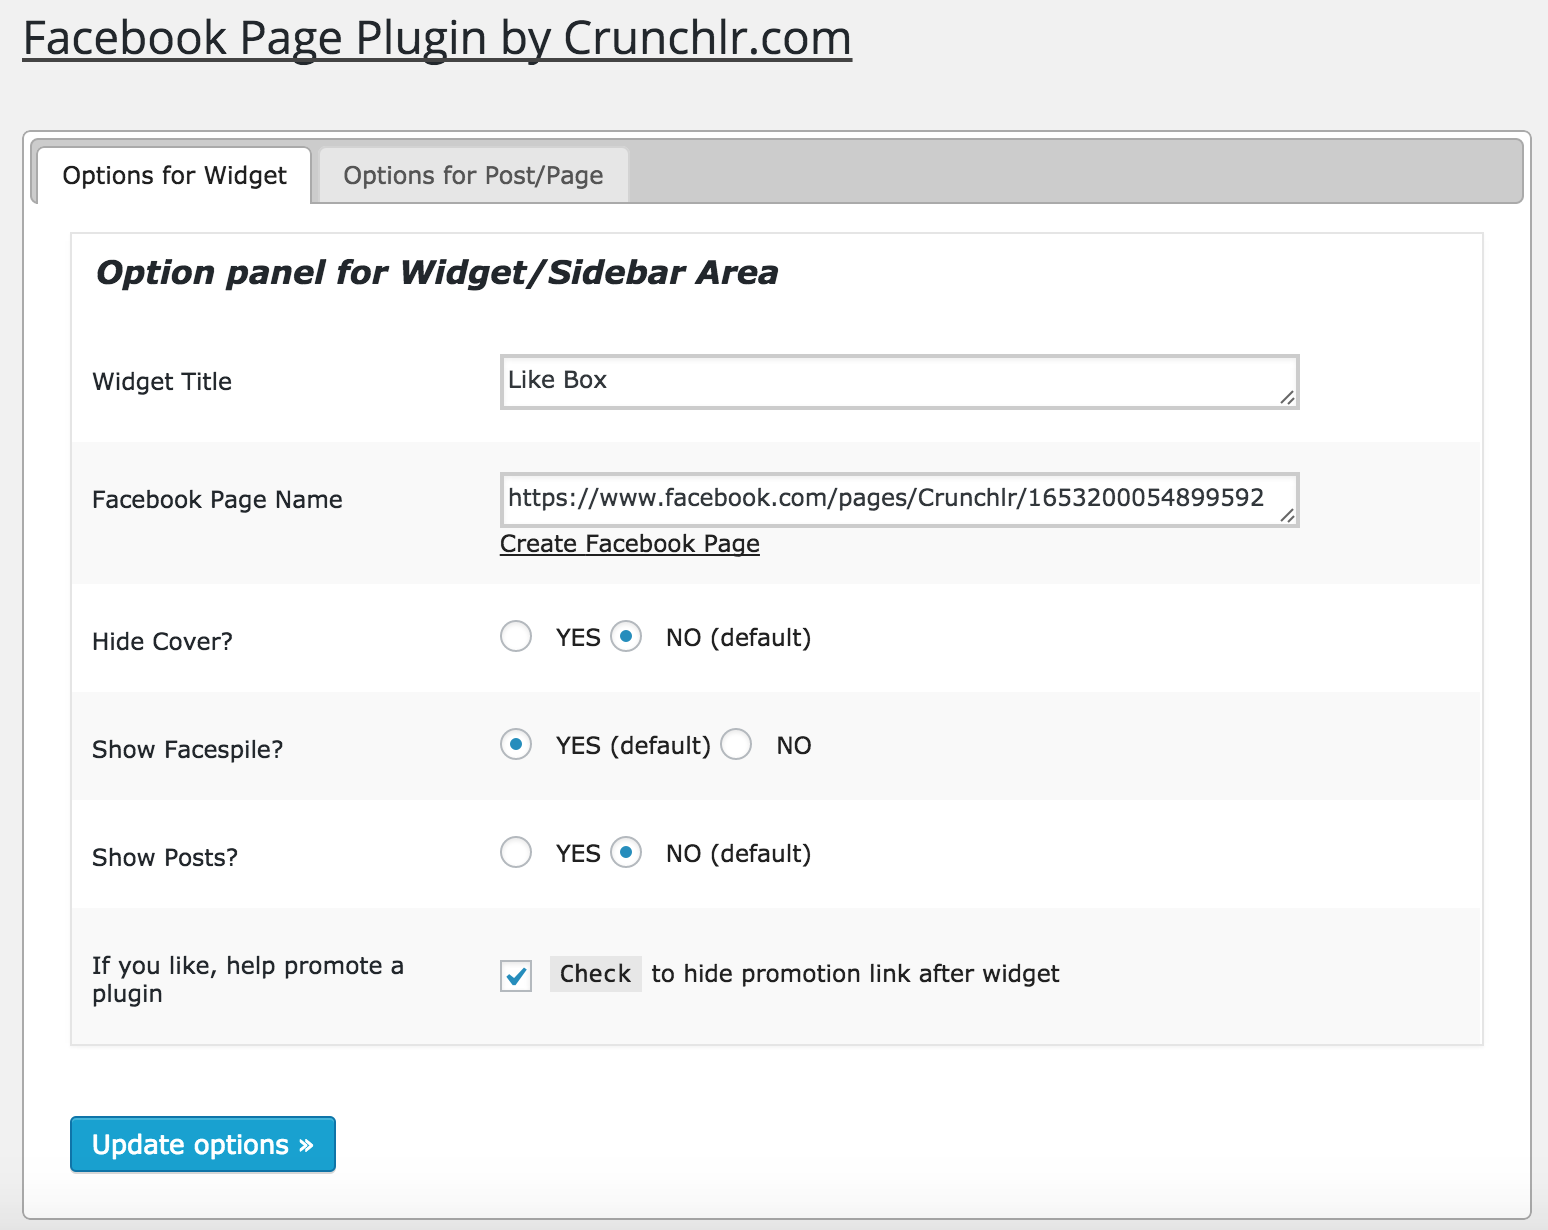
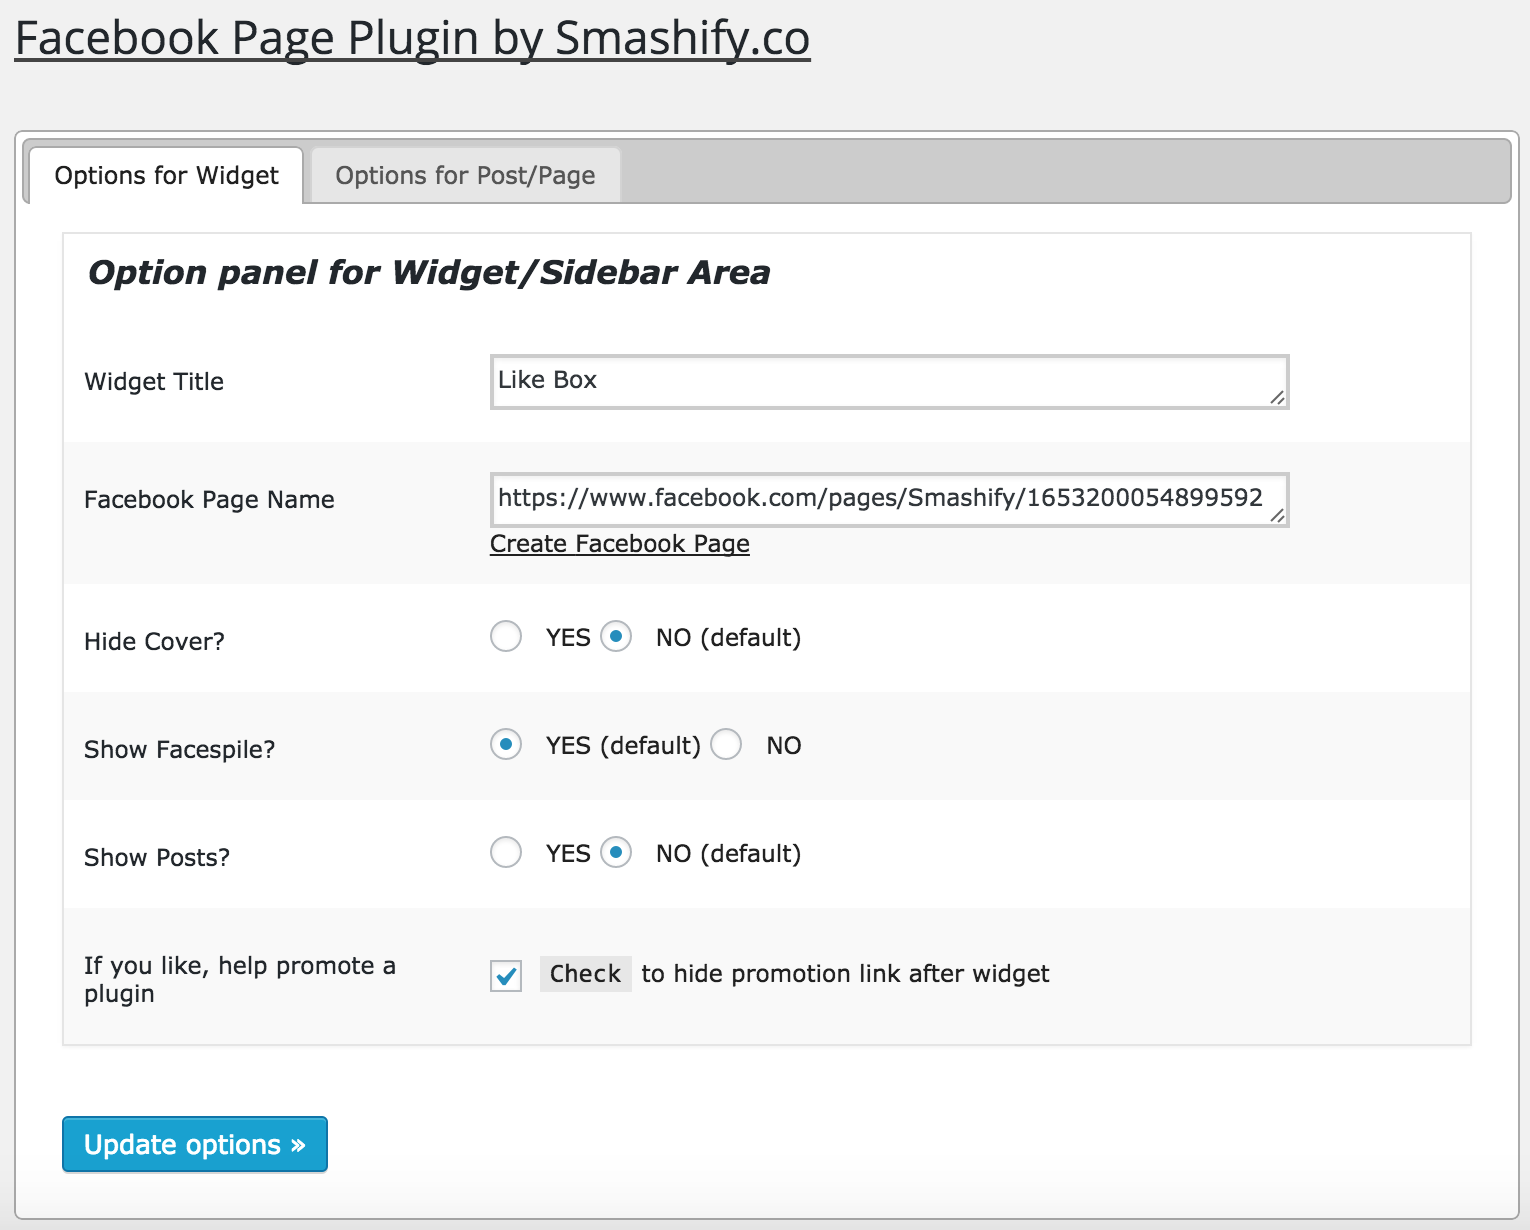
version 1.2 commit
git-svn-id: https://plugins.svn.wordpress.org/facebook-page-likebox/trunk@1166405 b8457f37-d9ea-0310-8a92-e5e31aec5664

diff --git a/facebook-page-likebox.php b/facebook-page-likebox.php
@@ -1,15 +1,15 @@
 <?php
 /*
 Plugin Name: Facebook Page Plugin (Likebox)
-Plugin URI: http://crunchlr.com/facebook-page-plugin-likebox-for-wordpress/
+Plugin URI: http://smashify.co/facebook-page-plugin-likebox-for-wordpress/
 Description: THE Simplest way to bring Facebook Page Plugin to WordPress with lot more Options
-Version: 1.1
-Author: Crunchlr
-Author URI: http://crunchlr.com
+Version: 1.2
+Author: Smashify
+Author URI: http://smashify.co
 */
 
 /*
-    Copyright (C) 2015 Crunchlr.com
+    Copyright (C) 2015 Smashify.co
 
     This program is free software; you can redistribute it and/or modify
     it under the terms of the GNU General Public License as published by
@@ -155,7 +155,7 @@ function show_crunchlr_facebook_page_plugin_likebox_widget($args)
     if ($sponser == 1) {
         $sponserlink_profile = "";
     } else {
-        $sponserlink_profile = '<div align="left">- <a href="http://crunchlr.com/facebook-page-plugin-likebox-for-wordpress/" title="Facebook Page Plugin by Crunchlr.com" target="_blank"> <font size="1">' . 'Facebook Page Plugin by Crunchlr' . '</font></a></div>';
+        $sponserlink_profile = '<div align="left">- <a href="http://smashify.co/facebook-page-plugin-likebox-for-wordpress/" title="Facebook Page Plugin by Smashify.co" target="_blank"> <font size="1">' . 'Facebook Page Plugin by Smashify' . '</font></a></div>';
     }
 
 

diff --git a/includes/setting-page/crunchlr-right-panel2.php b/includes/setting-page/crunchlr-right-panel2.php
@@ -1,6 +1,6 @@
 <?php
 /**
- * @author Crunchlr.com
+ * @author Smashify.co
  * Plugin: Facebook Page Plugin
  */
 ?>
@@ -12,9 +12,9 @@
 
         <div class="inside">
             <ul>
-               <li><a href="http://crunchlr.com/facebook-page-plugin-likebox-for-wordpress/" target="_blank">Feedback</a></li>
-               <li><a href="http://twitter.com/Crunchlr" target="_blank">Twitter</a></li>
-               <li><a href="https://www.facebook.com/pages/Crunchlr/1653200054899592" target="_blank">Facebook</a></li>
+               <li><a href="http://smashify.co/facebook-page-plugin-likebox-for-wordpress/" target="_blank">Feedback</a></li>
+               <li><a href="http://twitter.com/SmashifyCo" target="_blank">Twitter</a></li>
+               <li><a href="https://www.facebook.com/pages/Smashify/1653200054899592" target="_blank">Facebook</a></li>
                </li>
             </ul>
         </div>

diff --git a/includes/settings-page.php b/includes/settings-page.php
@@ -1,6 +1,6 @@
 <?php
 /**
- * @author Crunchlr.com
+ * @author Smashify.co
  * Plugin: Facebook Page Plugin
  */
 ?>
@@ -12,7 +12,7 @@
 
             <?php wp_nonce_field('fmz-update-setting','fmz-update-setting'); ?>
 
-            <u><h2>Facebook Page Plugin by Crunchlr.com</h2></u>
+            <u><h2>Facebook Page Plugin by Smashify.co</h2></u>
 
             <div id="poststuff" class="metabox-holder has-right-sidebar">
 

diff --git a/includes/setting-page/crunchlr-footer.php b/includes/setting-page/crunchlr-footer.php
@@ -1,6 +1,6 @@
 <?php
 /**
- * @author Crunchlr.com
+ * @author Smashify.co
  * Plugin: Facebook Page Plugin
  */
 ?>
@@ -10,6 +10,6 @@
 </div>
 <div class="clear">
     <p>
-        <br/>&copy; Copyright <?php echo date("Y"); ?> <a href="http://crunchlr.com" target="_blank">Crunchlr.com</a>
+        <br/>&copy; Copyright <?php echo date("Y"); ?> <a href="http://smashify.co" target="_blank">Smashify.co</a>
     </p>
 </div>		

diff --git a/includes/setting-page/crunchlr-left-panel1.php b/includes/setting-page/crunchlr-left-panel1.php
@@ -1,11 +1,11 @@
 <?php
 /**
- * @author Crunchlr.com
+ * @author Smashify.co
  * Plugin: Facebook Page Plugin
  */
 ?>
 <div class="postbox">
-	<div class="crunchlr">
+	<div class="smashify">
 		<h3>Option panel for Widget/Sidebar Area</h3>
 
 		<div>

diff --git a/includes/setting-page/crunchlr-left-column.php b/includes/setting-page/crunchlr-left-column.php
@@ -1,6 +1,6 @@
 <?php
 /**
- * @author Crunchlr.com
+ * @author Smashify.co
  * Plugin: Facebook Page Plugin
  */
 ?>

diff --git a/includes/setting-page/crunchlr-left-panel2.php b/includes/setting-page/crunchlr-left-panel2.php
@@ -1,6 +1,6 @@
 <?php
 /**
- * @author Crunchlr.com
+ * @author Smashify.co
  * Plugin: Facebook Page Plugin
  */
 ?>

diff --git a/includes/setting-page/crunchlr-right-column.php b/includes/setting-page/crunchlr-right-column.php
@@ -1,6 +1,6 @@
 <?php
 /**
- * @author Crunchlr.com
+ * @author Smashify.co
  * Plugin: Facebook Page Plugin
  */
 ?>

diff --git a/includes/setting-page/crunchlr-right-panel1.php b/includes/setting-page/crunchlr-right-panel1.php
@@ -1,6 +1,6 @@
 <?php
 /**
- * @author Crunchlr.com
+ * @author Smashify.co
  * Plugin: Facebook Page Plugin
  */
 ?>
